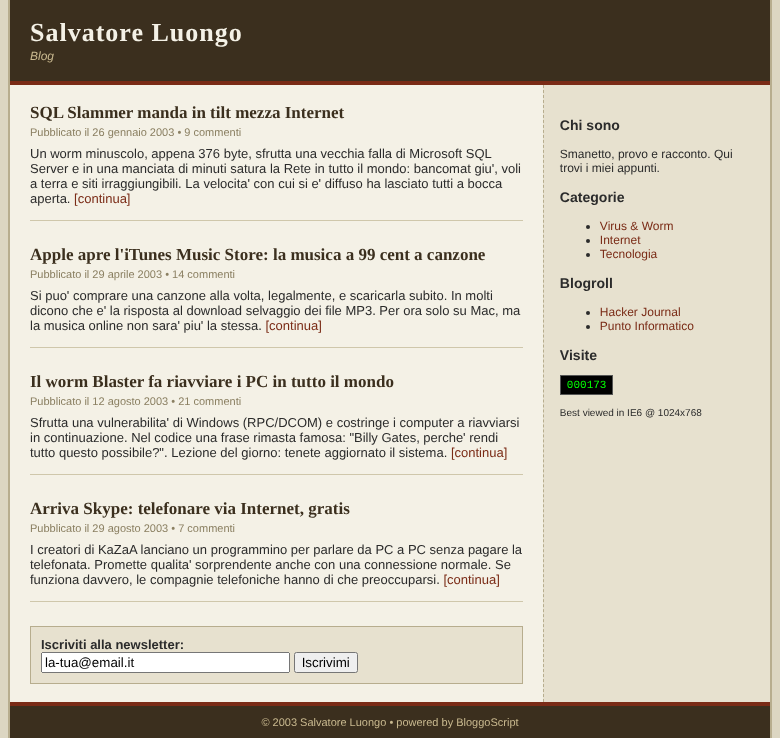
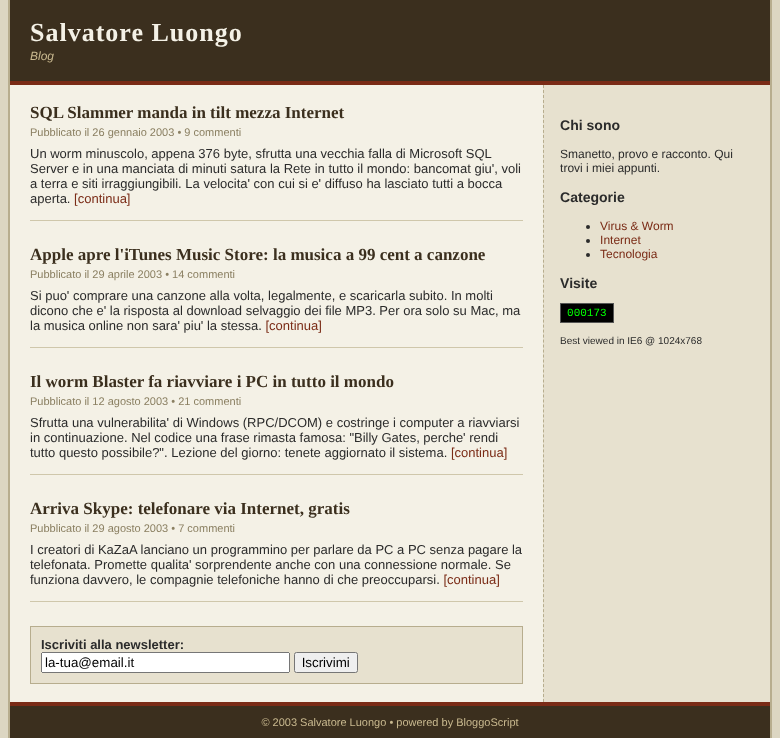
Articolo: tolto punto 3 della lista; pagina retro senza Blogroll (restano Categorie + Visite)

diff --git a/_posts/2026-10-19-scovare-segreti-repository-git.md b/_posts/2026-10-19-scovare-segreti-repository-git.md
@@ -98,8 +98,7 @@ La parte più comoda: puoi puntare BetterLeaks **direttamente a un repository pu
 Questa è la parte che in tanti sbagliano. Se scopri una chiave esposta, **cancellare il commit non basta**: potrebbe essere già stata copiata, e comunque resta nei cloni e nei fork altrui. L'ordine giusto è:
 
 1. **revoca o rigenera** subito la chiave sul servizio che l'ha emessa (Google, GitHub, AWS…): è l'unica mossa che la rende davvero inutile;
-2. solo dopo, **ripulisci la storia** del repository (per esempio con `git filter-repo` o lo strumento BFG) per togliere il secret dai vecchi commit;
-3. aggiorna i collaboratori, perché dovranno riallineare i loro cloni.
+2. solo dopo, **ripulisci la storia** del repository (per esempio con `git filter-repo` o lo strumento BFG) per togliere il secret dai vecchi commit.
 
 ## In sintesi
 
